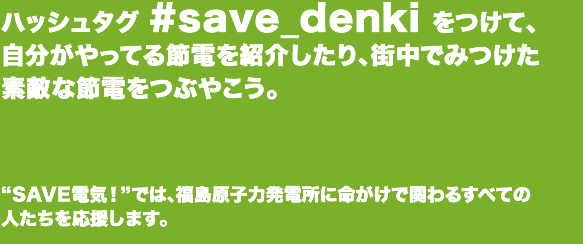
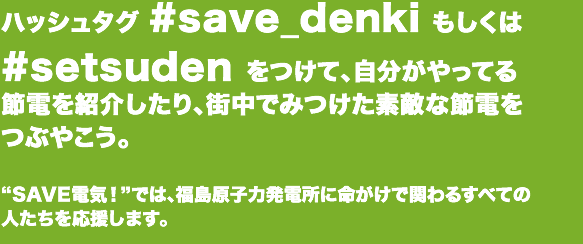
ハッシュタグにsetsudenを追加:

Changed region(s): [[0.0, 0.1721, 0.9262, 0.4877], [0.741, 0.0287, 0.9262, 0.1434], [0.0, 0.5164, 0.247, 0.6025]]

diff --git a/lib/twitter_stream_util/stream_api_worker.rb b/lib/twitter_stream_util/stream_api_worker.rb
@@ -4,7 +4,7 @@ WAIT_SECONDS = 30
 
 USERNAME = "save_denki"
 PASSWORD = "save_denki123"
-KEYWORD = ["#save_denki"]
+KEYWORD = ["#save_denki", "#setsuden"]
 
 module TwitterStreamUtil
   class StreamApiWorker
